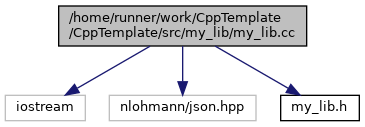
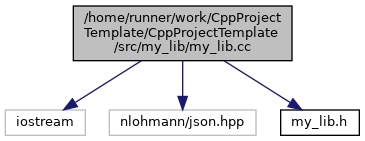
Deploying to gh-pages from @ zorzigio/CppProjectTemplate@5e015f444e851f2dfae61c1ad3823d6200e3e733 🚀

diff --git a/my__lib_8cc.html b/my__lib_8cc.html
@@ -5,7 +5,7 @@
 <meta http-equiv="X-UA-Compatible" content="IE=9"/>
 <meta name="generator" content="Doxygen 1.9.1"/>
 <meta name="viewport" content="width=device-width, initial-scale=1"/>
-<title>C++ Project Template: /home/runner/work/CppTemplate/CppTemplate/src/my_lib/my_lib.cc File Reference</title>
+<title>C++ Project Template: /home/runner/work/CppProjectTemplate/CppProjectTemplate/src/my_lib/my_lib.cc File Reference</title>
 <link href="tabs.css" rel="stylesheet" type="text/css"/>
 <script type="text/javascript" src="jquery.js"></script>
 <script type="text/javascript" src="dynsections.js"></script>
@@ -78,12 +78,12 @@ $(function() {
 </div><div class="textblock"><div class="dynheader">
 Include dependency graph for my_lib.cc:</div>
 <div class="dyncontent">
-<div class="center"><img src="my__lib_8cc__incl.png" border="0" usemap="#a_2home_2runner_2work_2CppTemplate_2CppTemplate_2src_2my__lib_2my__lib_8cc" alt=""/></div>
-<map name="a_2home_2runner_2work_2CppTemplate_2CppTemplate_2src_2my__lib_2my__lib_8cc" id="a_2home_2runner_2work_2CppTemplate_2CppTemplate_2src_2my__lib_2my__lib_8cc">
-<area shape="rect" title=" " alt="" coords="59,5,307,47"/>
-<area shape="rect" title=" " alt="" coords="5,95,85,121"/>
-<area shape="rect" title=" " alt="" coords="109,95,256,121"/>
-<area shape="rect" href="my__lib_8h.html" title=" " alt="" coords="281,95,359,121"/>
+<div class="center"><img src="my__lib_8cc__incl.png" border="0" usemap="#a_2home_2runner_2work_2CppProjectTemplate_2CppProjectTemplate_2src_2my__lib_2my__lib_8cc" alt=""/></div>
+<map name="a_2home_2runner_2work_2CppProjectTemplate_2CppProjectTemplate_2src_2my__lib_2my__lib_8cc" id="a_2home_2runner_2work_2CppProjectTemplate_2CppProjectTemplate_2src_2my__lib_2my__lib_8cc">
+<area shape="rect" title=" " alt="" coords="73,5,292,61"/>
+<area shape="rect" title=" " alt="" coords="5,109,85,136"/>
+<area shape="rect" title=" " alt="" coords="109,109,256,136"/>
+<area shape="rect" href="my__lib_8h.html" title=" " alt="" coords="281,109,359,136"/>
 </map>
 </div>
 </div><table class="memberdecls">

diff --git a/my__lib_8h.html b/my__lib_8h.html
@@ -5,7 +5,7 @@
 <meta http-equiv="X-UA-Compatible" content="IE=9"/>
 <meta name="generator" content="Doxygen 1.9.1"/>
 <meta name="viewport" content="width=device-width, initial-scale=1"/>
-<title>C++ Project Template: /home/runner/work/CppTemplate/CppTemplate/src/my_lib/my_lib.h File Reference</title>
+<title>C++ Project Template: /home/runner/work/CppProjectTemplate/CppProjectTemplate/src/my_lib/my_lib.h File Reference</title>
 <link href="tabs.css" rel="stylesheet" type="text/css"/>
 <script type="text/javascript" src="jquery.js"></script>
 <script type="text/javascript" src="dynsections.js"></script>
@@ -75,10 +75,10 @@ $(function() {
 <div class="textblock"><div class="dynheader">
 This graph shows which files directly or indirectly include this file:</div>
 <div class="dyncontent">
-<div class="center"><img src="my__lib_8h__dep__incl.png" border="0" usemap="#a_2home_2runner_2work_2CppTemplate_2CppTemplate_2src_2my__lib_2my__lib_8hdep" alt=""/></div>
-<map name="a_2home_2runner_2work_2CppTemplate_2CppTemplate_2src_2my__lib_2my__lib_8hdep" id="a_2home_2runner_2work_2CppTemplate_2CppTemplate_2src_2my__lib_2my__lib_8hdep">
-<area shape="rect" title=" " alt="" coords="8,5,251,47"/>
-<area shape="rect" href="my__lib_8cc.html" title=" " alt="" coords="5,95,253,136"/>
+<div class="center"><img src="my__lib_8h__dep__incl.png" border="0" usemap="#a_2home_2runner_2work_2CppProjectTemplate_2CppProjectTemplate_2src_2my__lib_2my__lib_8hdep" alt=""/></div>
+<map name="a_2home_2runner_2work_2CppProjectTemplate_2CppProjectTemplate_2src_2my__lib_2my__lib_8hdep" id="a_2home_2runner_2work_2CppProjectTemplate_2CppProjectTemplate_2src_2my__lib_2my__lib_8hdep">
+<area shape="rect" title=" " alt="" coords="5,5,224,61"/>
+<area shape="rect" href="my__lib_8cc.html" title=" " alt="" coords="5,109,224,165"/>
 </map>
 </div>
 </div>

diff --git a/my__lib_2CMakeLists_8txt.html b/my__lib_2CMakeLists_8txt.html
@@ -5,7 +5,7 @@
 <meta http-equiv="X-UA-Compatible" content="IE=9"/>
 <meta name="generator" content="Doxygen 1.9.1"/>
 <meta name="viewport" content="width=device-width, initial-scale=1"/>
-<title>C++ Project Template: /home/runner/work/CppTemplate/CppTemplate/src/my_lib/CMakeLists.txt File Reference</title>
+<title>C++ Project Template: /home/runner/work/CppProjectTemplate/CppProjectTemplate/src/my_lib/CMakeLists.txt File Reference</title>
 <link href="tabs.css" rel="stylesheet" type="text/css"/>
 <script type="text/javascript" src="jquery.js"></script>
 <script type="text/javascript" src="dynsections.js"></script>
@@ -65,7 +65,7 @@ $(function() {
   <div class="summary">
 <a href="#func-members">Functions</a>  </div>
   <div class="headertitle">
-<div class="title">/home/runner/work/CppTemplate/CppTemplate/src/my_lib/CMakeLists.txt File Reference</div>  </div>
+<div class="title">/home/runner/work/CppProjectTemplate/CppProjectTemplate/src/my_lib/CMakeLists.txt File Reference</div>  </div>
 </div><!--header-->
 <div class="contents">
 <table class="memberdecls">

diff --git a/CMakeLists_8txt.html b/CMakeLists_8txt.html
@@ -5,7 +5,7 @@
 <meta http-equiv="X-UA-Compatible" content="IE=9"/>
 <meta name="generator" content="Doxygen 1.9.1"/>
 <meta name="viewport" content="width=device-width, initial-scale=1"/>
-<title>C++ Project Template: /home/runner/work/CppTemplate/CppTemplate/src/CMakeLists.txt File Reference</title>
+<title>C++ Project Template: /home/runner/work/CppProjectTemplate/CppProjectTemplate/src/CMakeLists.txt File Reference</title>
 <link href="tabs.css" rel="stylesheet" type="text/css"/>
 <script type="text/javascript" src="jquery.js"></script>
 <script type="text/javascript" src="dynsections.js"></script>
@@ -63,7 +63,7 @@ $(function() {
 </div><!-- top -->
 <div class="header">
   <div class="headertitle">
-<div class="title">/home/runner/work/CppTemplate/CppTemplate/src/CMakeLists.txt File Reference</div>  </div>
+<div class="title">/home/runner/work/CppProjectTemplate/CppProjectTemplate/src/CMakeLists.txt File Reference</div>  </div>
 </div><!--header-->
 <div class="contents">
 </div><!-- contents -->

diff --git a/my__lib_8h_source.html b/my__lib_8h_source.html
@@ -5,7 +5,7 @@
 <meta http-equiv="X-UA-Compatible" content="IE=9"/>
 <meta name="generator" content="Doxygen 1.9.1"/>
 <meta name="viewport" content="width=device-width, initial-scale=1"/>
-<title>C++ Project Template: /home/runner/work/CppTemplate/CppTemplate/src/my_lib/my_lib.h Source File</title>
+<title>C++ Project Template: /home/runner/work/CppProjectTemplate/CppProjectTemplate/src/my_lib/my_lib.h Source File</title>
 <link href="tabs.css" rel="stylesheet" type="text/css"/>
 <script type="text/javascript" src="jquery.js"></script>
 <script type="text/javascript" src="dynsections.js"></script>

diff --git a/dir_08ebf401352d0c333d3a643fc2ed36cf.html b/dir_08ebf401352d0c333d3a643fc2ed36cf.html
@@ -5,7 +5,7 @@
 <meta http-equiv="X-UA-Compatible" content="IE=9"/>
 <meta name="generator" content="Doxygen 1.9.1"/>
 <meta name="viewport" content="width=device-width, initial-scale=1"/>
-<title>C++ Project Template: /home/runner/work/CppTemplate/CppTemplate/src/my_lib Directory Reference</title>
+<title>C++ Project Template: /home/runner/work/CppProjectTemplate/CppProjectTemplate/src/my_lib Directory Reference</title>
 <link href="tabs.css" rel="stylesheet" type="text/css"/>
 <script type="text/javascript" src="jquery.js"></script>
 <script type="text/javascript" src="dynsections.js"></script>

diff --git a/dir_68267d1309a1af8e8297ef4c3efbcdba.html b/dir_68267d1309a1af8e8297ef4c3efbcdba.html
@@ -5,7 +5,7 @@
 <meta http-equiv="X-UA-Compatible" content="IE=9"/>
 <meta name="generator" content="Doxygen 1.9.1"/>
 <meta name="viewport" content="width=device-width, initial-scale=1"/>
-<title>C++ Project Template: /home/runner/work/CppTemplate/CppTemplate/src Directory Reference</title>
+<title>C++ Project Template: /home/runner/work/CppProjectTemplate/CppProjectTemplate/src Directory Reference</title>
 <link href="tabs.css" rel="stylesheet" type="text/css"/>
 <script type="text/javascript" src="jquery.js"></script>
 <script type="text/javascript" src="dynsections.js"></script>
